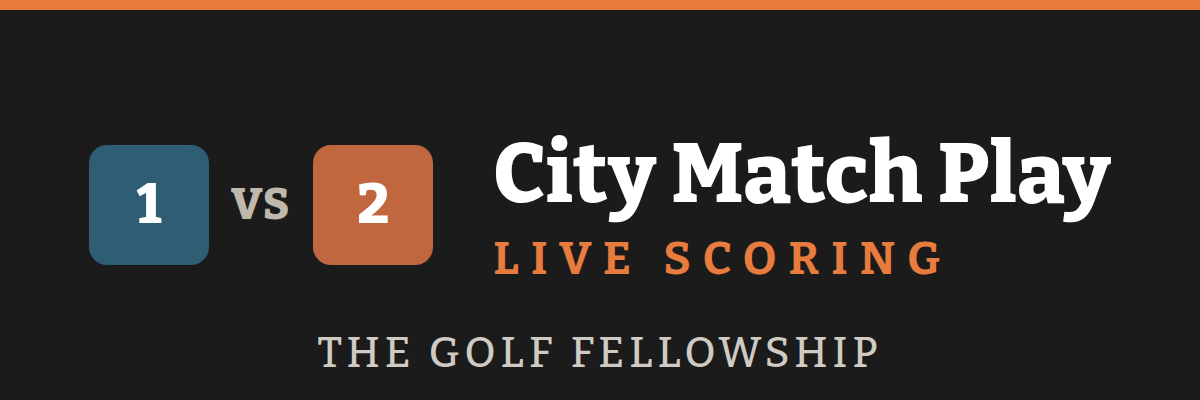
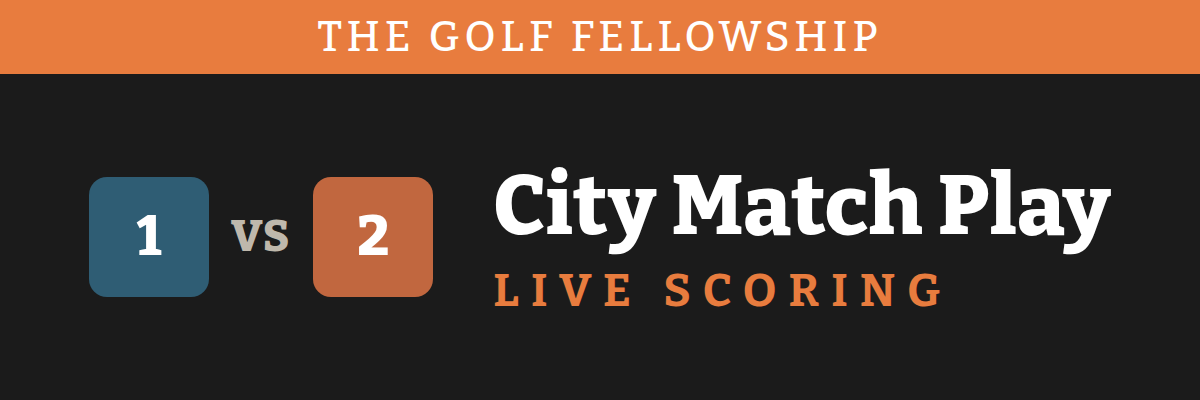
style: THE GOLF FELLOWSHIP header bar on preview cards — black on orange, orange on navy/black (v2.255.7)
Claude-Session: https://claude.ai/code/session_012FvSk9DKuqXMEcTJxKdnKy

diff --git a/transaction-tracker/templates/contests.html b/transaction-tracker/templates/contests.html
@@ -23,17 +23,17 @@
     {% if lsc_landing %}
     {% set og_title = "The Lone Star Cup Qualifiers" %}
     {% set og_desc = "Austin vs San Antonio — projected rosters live from today's standings, plus points races and Match Play." %}
-    {% set og_image = "/static/og-lone-star-cup.png?v=403" %}
+    {% set og_image = "/static/og-lone-star-cup.png?v=404" %}
     {% elif mp_landing %}
     {% set og_title = "City Match Play — " ~ mp_landing %}
     {% set og_desc = "Follow the matches live — hole-by-hole scorecards, running margins, and the bracket." %}
-    {% set og_image = "/static/og-match-play.png?v=403" %}
+    {% set og_image = "/static/og-match-play.png?v=404" %}
     {% else %}
     {% set og_title = "TGF Leaderboard" %}
     {% set og_desc = "Points races, Match Play, and the Lone Star Cup — live standings for San Antonio & Austin." %}
     {# Wide banner, not the bare app icon — iMessage renders a square
        512px og:image as a huge card (Kerry 2026-08-21: "Way too big"). #}
-    {% set og_image = "/static/og-leaderboard.png?v=403" %}
+    {% set og_image = "/static/og-leaderboard.png?v=404" %}
     {% endif %}
     {% include "_og_meta.html" %}
     <link rel="stylesheet" href="/static/css/dashboard.css?v={{ app_version }}">

diff --git a/transaction-tracker/static/js/version.js b/transaction-tracker/static/js/version.js
@@ -1,5 +1,12 @@
-window.TGF_VERSION = "2.255.6";
+window.TGF_VERSION = "2.255.7";
 window.TGF_CHANGELOG = [
+  {
+    version: "2.255.7",
+    date: "2026-08-21",
+    changes: [
+      "THE GOLF FELLOWSHIP flips from a footer line to a full-width contrasting header bar on all three link-preview cards (Kerry): black bar on the orange Leaderboard card, TGF-orange bar on the navy Lone Star Cup and black Match Play cards, white 42px Bitter text centered in the bar. The bar replaces the old thin top rule; the card art stays centered in the space below it. Cache-buster bumped to ?v=404.",
+    ],
+  },
   {
     version: "2.255.6",
     date: "2026-08-21",
